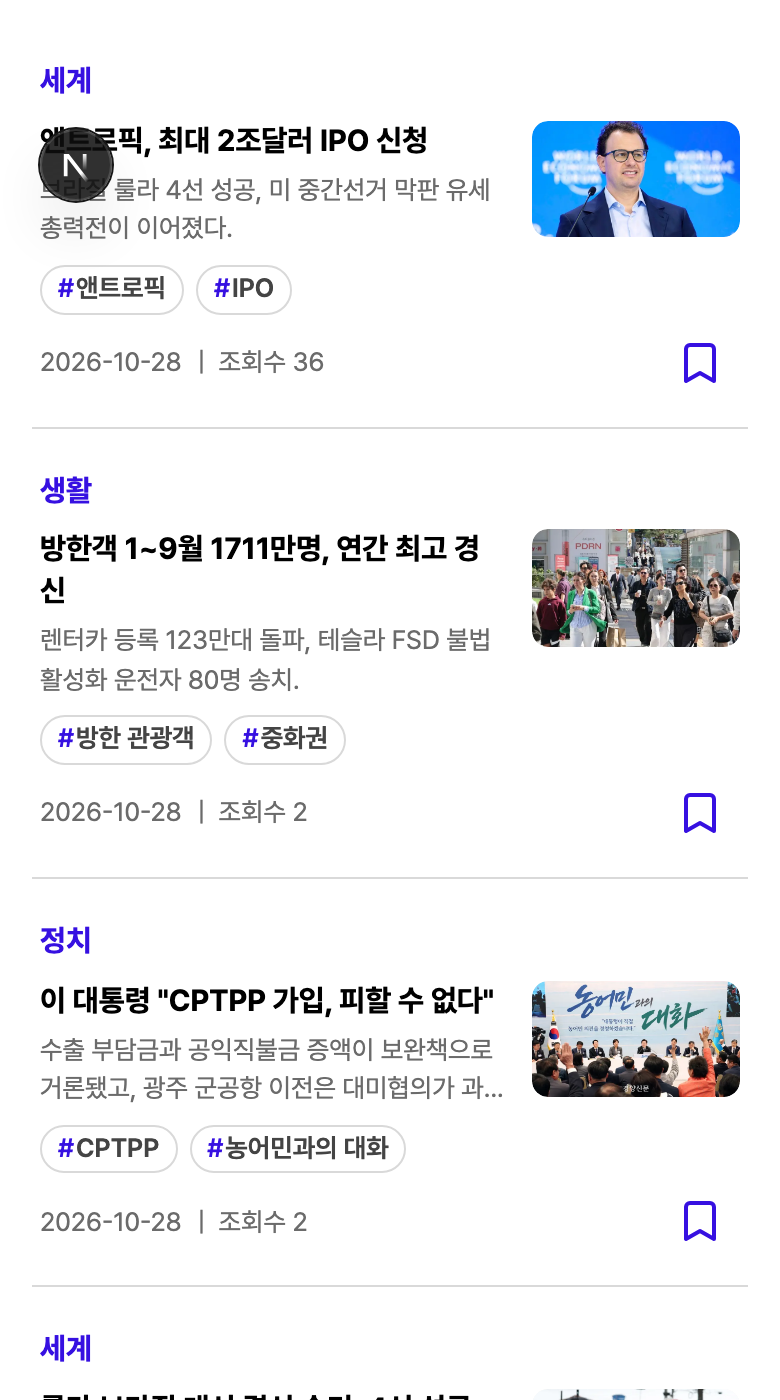
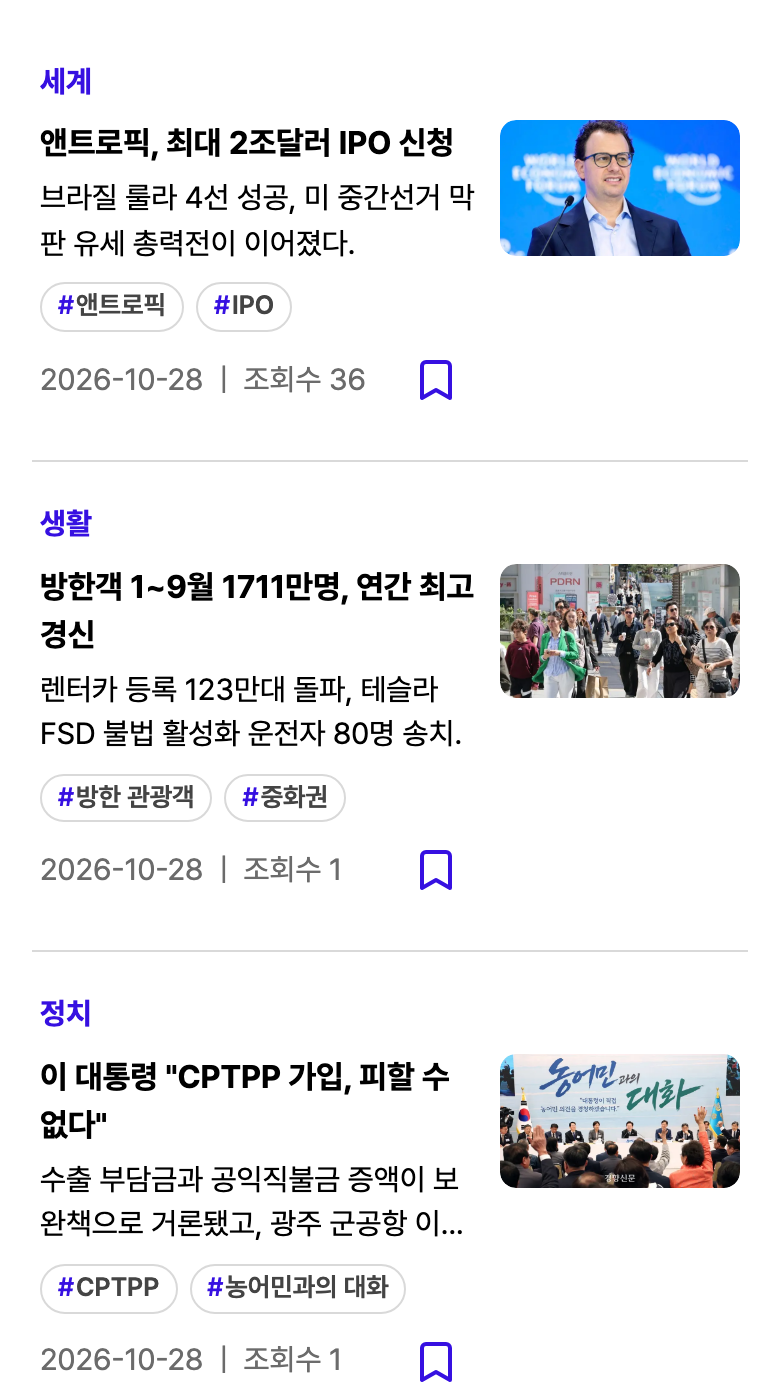
style: 휴대폰 목록 카드를 뉴스 앱 목록처럼 — 제목 | 썸네일, 아래 한 줄에 분야 · 날짜 · 조회수와 북마크, 설명 · 태그는 빼기

diff --git a/apps/web/src/components/common/Card.tsx b/apps/web/src/components/common/Card.tsx
@@ -326,6 +326,12 @@ const StyledCard = styled.div<StyledProps>`
 			white-space: nowrap;
 		}
 
+		/* 날짜 | 조회수 (휴대폰은 · ) */
+		.views::before {
+			content: '|';
+			margin-right: 0.5rem;
+		}
+
 		.rounded-icon-button {
 			padding: 0.5rem 0.5rem;
 			border-radius: ${({ theme }) => theme.borderRadius.circle};
@@ -675,54 +681,27 @@ const listCardStyles = css`
 			}
 		}
 
-		/* 휴대폰: 글(제목 · 설명 · 태그) | 작은 썸네일, 그 아래 날짜 · 조회수 · 북마크 줄은 카드 폭 가득 (북마크가 오른쪽 끝에) */
+		/*
+		 * 휴대폰은 뉴스 앱 목록처럼: 제목 | 썸네일, 아래 한 줄에 분야 · 날짜 · 조회수, 북마크는 오른쪽 끝.
+		 * 설명 · 태그는 뺀다. 안쪽 칸들을 풀어(display: contents) 카드 한 격자에 놓는다
+		 */
 		@media ${({ theme }) => theme.mediaQuery.mobile} {
-			.content {
-				display: grid;
-				grid-template-columns: minmax(0, 1fr) 6.5rem;
-				column-gap: 0.875rem;
-				row-gap: 0.25rem;
-				align-items: start;
-
-				.left {
-					display: contents;
-				}
-
-				.left > * {
-					grid-column: 1;
-				}
-
-				/* 썸네일은 제목 옆에 4:3로 */
-				.image-placeholder {
-					grid-column: 2;
-					grid-row: 1 / span 3;
-					width: 6rem;
-					aspect-ratio: 4 / 3;
-
-					> div,
-					img {
-						height: 100%;
-						aspect-ratio: auto;
-					}
-				}
-
-				/* 북마크 단추(누르는 칸 40px)가 줄 높이를 키우지 않게: 줄은 1.25rem, 단추는 위아래로 넘쳐 누르는 칸은 그대로 */
-				.card-footer {
-					grid-column: 1 / -1;
-					height: 1.25rem;
-					margin-top: 0.375rem;
-					align-items: center;
-					gap: 0.375rem;
-				}
+			.content,
+			.content .left,
+			.card-footer {
+				display: contents;
 			}
 
-			.card-header {
-				margin-bottom: 0.25rem;
+			.content .description,
+			.content .tags {
+				display: none;
+			}
 
-				p,
-				span {
-					font-size: ${({ theme }) => theme.fontSize.extraSmall};
-				}
+			.stretched-link {
+				grid-row: 1;
+				grid-column: 1 / 5;
+				align-self: start;
+				padding-right: 0.5rem;
 			}
 
 			.title {
@@ -730,31 +709,67 @@ const listCardStyles = css`
 				line-height: 1.4;
 			}
 
-			.description {
-				font-size: ${({ theme }) => theme.fontSize.extraSmall};
-				color: ${({ theme }) => theme.color.subText};
-			}
+			/* 썸네일은 제목 옆에 4:3로 */
+			.content .image-placeholder {
+				grid-row: 1;
+				grid-column: 5;
+				width: 5.5rem;
+				aspect-ratio: 4 / 3;
 
-			/* 태그는 칩 대신 글자만 (#앤트로픽 #IPO) */
-			.tags {
-				margin-top: 0.125rem;
-				gap: 0.5rem;
-
-				li {
-					padding: 0;
-					border: none;
-					font-size: 0.75rem;
+				> div,
+				img {
+					height: 100%;
+					aspect-ratio: auto;
 				}
 			}
 
+			/* 아래 정보 줄: 분야 · 날짜 · 조회수 · (빈 칸) · 북마크 */
+			.card-header {
+				grid-row: 2;
+				grid-column: 1;
+				margin: 0;
+			}
+
+			.card-header p,
+			.card-header span,
 			.card-footer p,
 			.card-footer span {
 				font-size: 0.75rem;
+				line-height: 1.25rem;
 			}
 
-			.card-footer .right svg {
-				width: 1.125rem;
-				height: 1.125rem;
+			.card-footer > :first-child {
+				grid-row: 2;
+				grid-column: 2;
+
+				&::before {
+					content: '·';
+					margin-right: 0.375rem;
+				}
+			}
+
+			.card-footer .views {
+				grid-row: 2;
+				grid-column: 3;
+
+				&::before {
+					content: '·';
+					margin-right: 0.375rem;
+				}
+			}
+
+			/* 북마크 단추(누르는 칸 40px)가 줄 높이를 키우지 않게 1.25rem 줄에 넘치게 둔다. 카드 전체 링크 위에서 눌리게 */
+			.card-footer .right {
+				grid-row: 2;
+				grid-column: 5;
+				height: 1.25rem;
+				position: relative;
+				z-index: 1;
+
+				svg {
+					width: 1.125rem;
+					height: 1.125rem;
+				}
 			}
 		}
 	}
@@ -762,6 +777,15 @@ const listCardStyles = css`
 	@media ${({ theme }) => theme.mediaQuery.mobile} {
 		.card-body {
 			padding: 1rem 0;
+		}
+
+		/* 공통 .card-body .card-main(flex)보다 앞서도록 같은 깊이로 */
+		.card-body .card-main {
+			display: grid;
+			grid-template-columns: auto auto auto minmax(0, 1fr) 5.5rem;
+			column-gap: 0.375rem;
+			row-gap: 0.5rem;
+			align-items: center;
 		}
 	}
 `;

diff --git a/apps/web/src/app/articles/(main)/_components/ListSection.tsx b/apps/web/src/app/articles/(main)/_components/ListSection.tsx
@@ -17,13 +17,7 @@ import EmptyState from '@/components/common/EmptyState';
 import { mapIdToTitle } from '@/utils/mapInterests';
 import { parseArticles } from '@/utils/parseArticles';
 import { fetchSearchNewsletters } from '@/api/article';
-import {
-	SearchSort,
-	filtersKey,
-	readFilters,
-	toApiQuery,
-	toPageHref,
-} from '@/utils/newsletterSearch';
+import { SearchSort, filtersKey, readFilters, toApiQuery, toPageHref } from '@/utils/newsletterSearch';
 import { useToast } from '@/hooks/useToast';
 
 export default function ListSection() {
@@ -168,7 +162,9 @@ export default function ListSection() {
 								footer: (
 									<>
 										<Text color="subText">{article.date}</Text>
-										<Text color="subText">|&nbsp;&nbsp;조회수 {article.views}</Text>
+										<Text color="subText" className="views">
+											조회수 {article.views}
+										</Text>
 										<div className="right">
 											<BookmarkIcon newsId={article.id} newsletterId={article.id} />
 										</div>
